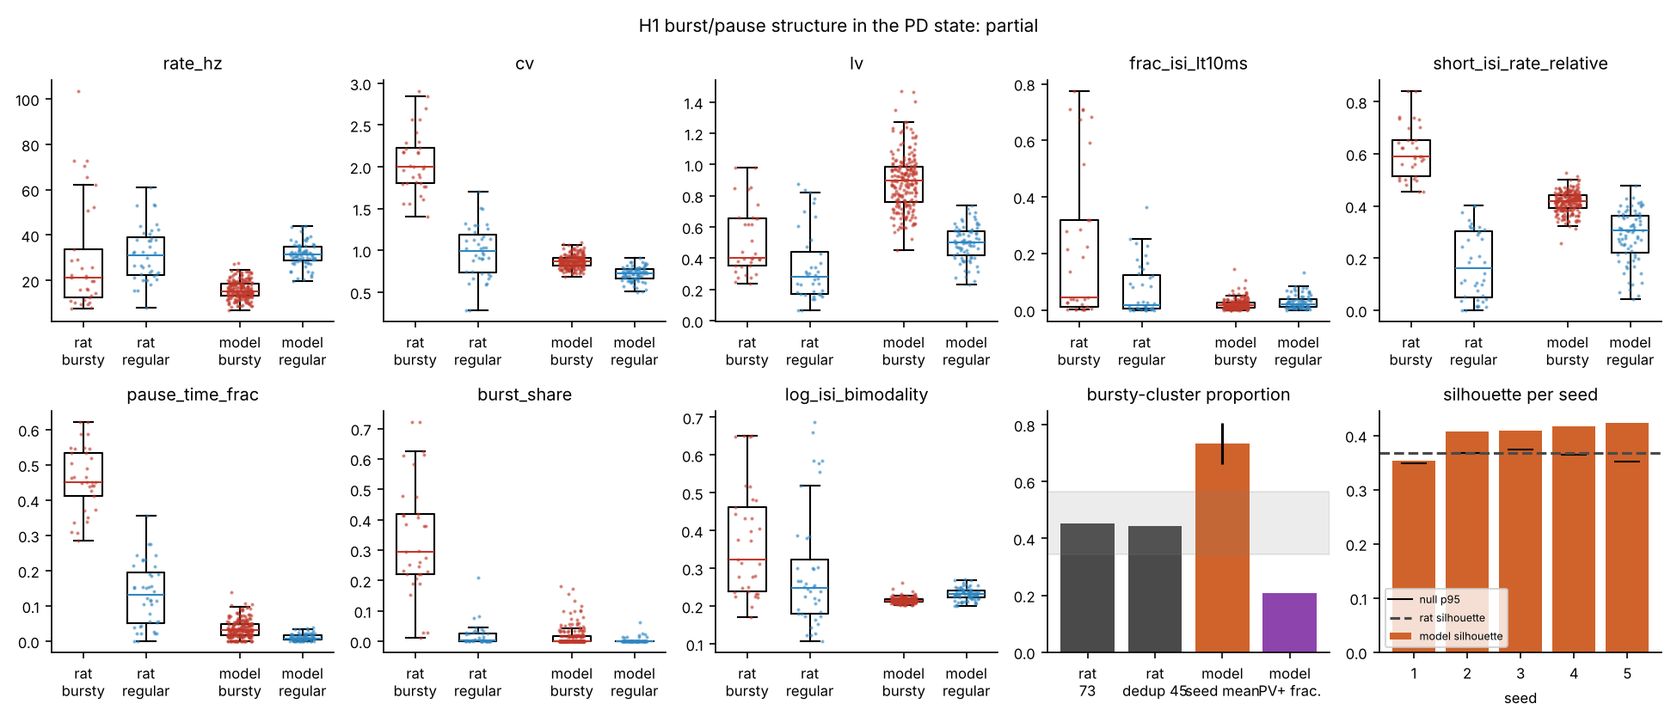
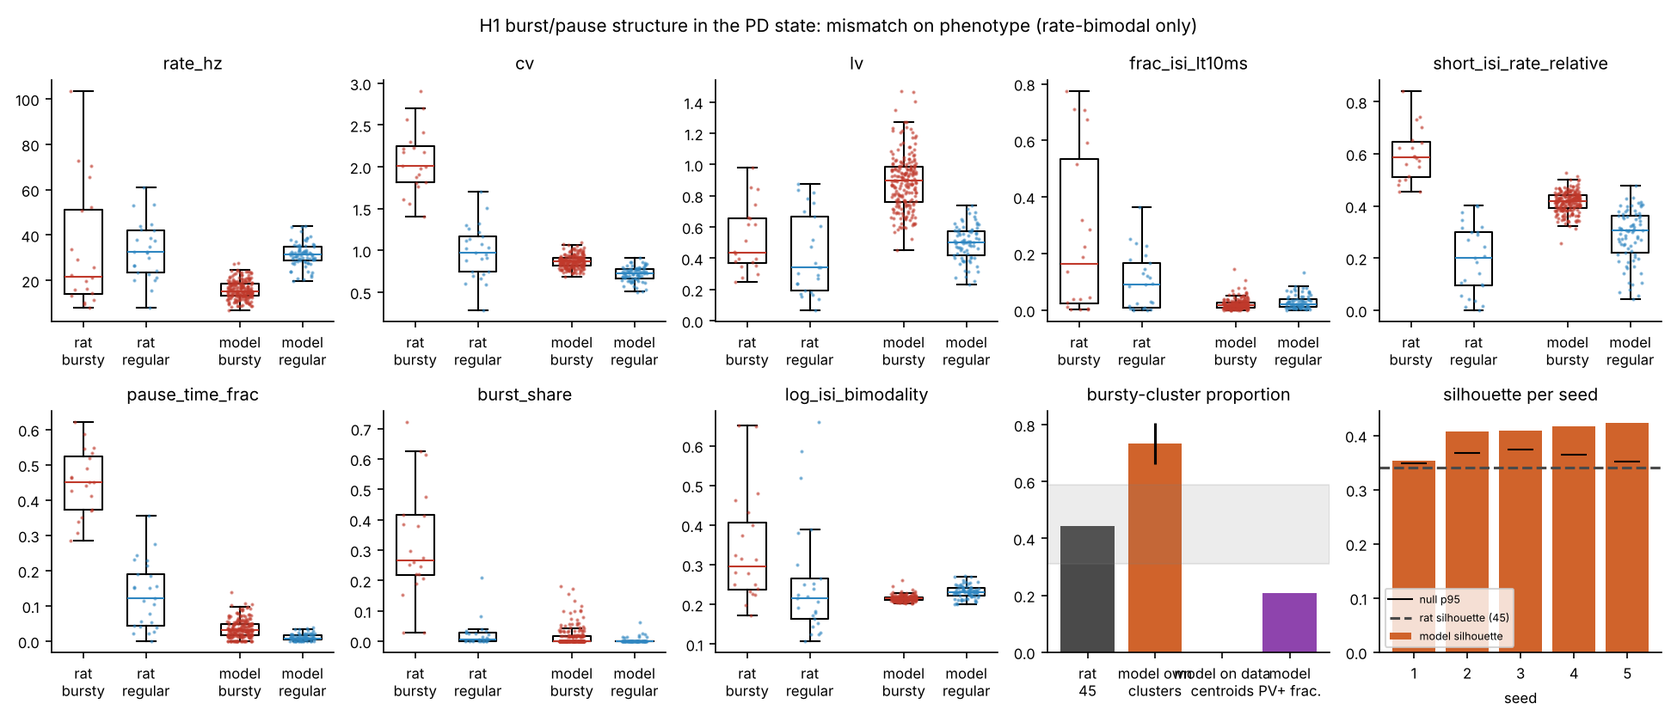
Held-out: rat reference = 45 distinct units; H1 phenotype criterion; H3 slow band excluded from verdict
- H1/H2 use the 45 distinct SS units as the primary reference (28 of 73 rows are duplicate exports).
- H1 adds criterion (c): model cells assigned to the data's burst/pause centroids must match the data's
  bursty proportion; the model's PV+ vs PV- rate split passed the original rule without a burst/pause phenotype.
  New verdict: mismatch on phenotype (rate-bimodal only); original-rule verdict kept in summary.
- H3 slow-band locking is set by the imposed input envelope and no longer counts; beta not testable -> uninformative.
- Rules revised after the first comparison, on review; predictions unchanged.

Claude-Session: https://claude.ai/code/session_01Dqrw5jEpRrFdYHc1443wPa

diff --git a/validation/heldout/compare/compare_H1.py b/validation/heldout/compare/compare_H1.py
@@ -5,6 +5,14 @@ Verdict rule (fixed before the comparison): (a) bimodal = silhouette p < 0.05 vs
 k = 2, in >= 3 of 5 seeds; (b) bursty-cluster proportion (seed mean) inside the 95% Wilson CI of the data (33/73).
 match = (a) and (b); partial = one of them; mismatch = neither.
 
+Revised 2026-11-18 (after the first comparison, on review; the original verdict is still reported as `verdict_v1`):
+- the data reference is the 45 distinct SS units (28 of the 73 rows are duplicate exports of the same units);
+- (c) phenotype: model cells are assigned to the nearest *data* cluster centroid (data-standardized feature space); the
+  seed-mean fraction assigned to the data's bursty cluster must lie inside the data's 95% Wilson CI. Without (c), a
+  model split along another axis (e.g. rate) passes (a) and (b) without any burst/pause phenotype.
+- verdict: (c) fails -> 'mismatch on phenotype (rate-bimodal only)' if (a) holds, else 'mismatch';
+  (c) holds -> 'match' if (a) and (b), else 'partial'.
+
     python -m validation.heldout.compare.compare_H1
 """
 import os
@@ -26,30 +34,39 @@ def main():
     rat = data_io.rat_ss_table()
     rat['cluster'] = np.where(rat.ward_cluster == 0, 'bursty', 'regular')
     dedup = data_io.rat_dedup(rat)
+    ref = dedup  # primary data reference: 45 distinct units
     model['cluster'] = np.where(model.bursty_seedwise, 'bursty', 'regular')
 
     # (a) bimodality, (b) proportion
     S = m['summary']
     a = S['n_seeds_sig_p05'] >= 3 and S['n_seeds_bic_k2'] >= 3
-    k, n = int((rat.cluster == 'bursty').sum()), len(rat)
+    k73, n73 = int((rat.cluster == 'bursty').sum()), len(rat)
+    lo73, hi73 = C.wilson(k73, n73)
+    verdict_v1 = 'match' if a and lo73 <= S['bursty_frac']['mean'] <= hi73 else (
+        'partial' if a or lo73 <= S['bursty_frac']['mean'] <= hi73 else 'mismatch')
+    k, n = int((ref.cluster == 'bursty').sum()), len(ref)
     lo, hi = C.wilson(k, n)
     b = lo <= S['bursty_frac']['mean'] <= hi
-    verdict = 'match' if a and b else ('partial' if a or b else 'mismatch')
 
     # model cells assigned to the data clusters (nearest centroid in the data's standardized space)
     from sklearn.preprocessing import StandardScaler
-    sc = StandardScaler().fit(rat[sf.FEATURES].values)
-    Xr = sc.transform(rat[sf.FEATURES].values)
-    lab = np.where(rat.cluster == 'bursty', 0, 1)
+    sc = StandardScaler().fit(ref[sf.FEATURES].values)
+    Xr = sc.transform(ref[sf.FEATURES].values)
+    lab = np.where(ref.cluster == 'bursty', 0, 1)
     assigned = clustering.assign_to_reference(sc.transform(model[sf.FEATURES].values), Xr, lab)
     model['data_cluster'] = np.where(assigned == 0, 'bursty', 'regular')
     frac_data_bursty = model.groupby('seed').data_cluster.apply(lambda x: np.mean(x == 'bursty'))
+    c = lo <= frac_data_bursty.mean() <= hi
+    if not c:
+        verdict = 'mismatch on phenotype (rate-bimodal only)' if a else 'mismatch'
+    else:
+        verdict = 'match' if a and b else 'partial'
 
     # (d) per-cluster features, model vs data (rank-sum)
     rows = []
     for cl in ('bursty', 'regular'):
         for f in sf.FEATURES:
-            x, y = rat.loc[rat.cluster == cl, f], model.loc[model.cluster == cl, f]
+            x, y = ref.loc[ref.cluster == cl, f], model.loc[model.cluster == cl, f]
             p = mannwhitneyu(x, y).pvalue if len(y) else np.nan
             rows.append(dict(cluster=cl, feature=f, data_median=x.median(), model_median=y.median() if len(y) else np.nan,
                              n_data=len(x), n_model=len(y), mw_p=p))
@@ -68,7 +85,7 @@ def main():
     plt = C.style()
     fig, axs = plt.subplots(2, 5, figsize=(13, 5.6))
     for ax, f in zip(axs.flat[:8], sf.FEATURES):
-        data = [rat.loc[rat.cluster == 'bursty', f], rat.loc[rat.cluster == 'regular', f],
+        data = [ref.loc[ref.cluster == 'bursty', f], ref.loc[ref.cluster == 'regular', f],
                 model.loc[model.cluster == 'bursty', f], model.loc[model.cluster == 'regular', f]]
         pos = [0, 1, 2.5, 3.5]
         for x, d, c in zip(pos, data, ['bursty', 'regular'] * 2):
@@ -78,15 +95,15 @@ def main():
         ax.set_xticks(pos, ['rat\nbursty', 'rat\nregular', 'model\nbursty', 'model\nregular'])
         ax.set_title(f)
     ax = axs.flat[8]
-    ax.bar(['rat\n73', 'rat\ndedup 45', 'model\nseed mean', 'model\nPV+ frac.'],
-           [k / n, (dedup.cluster == 'bursty').mean(), S['bursty_frac']['mean'], pred['metrics']['pv_fraction']],
-           yerr=[0, 0, S['bursty_frac']['sd'], 0], color=[C.COL['data'], C.COL['data'], C.COL['model'], C.COL['PV+']])
+    ax.bar(['rat\n45', 'model own\nclusters', 'model on data\ncentroids', 'model\nPV+ frac.'],
+           [k / n, S['bursty_frac']['mean'], frac_data_bursty.mean(), pred['metrics']['pv_fraction']],
+           yerr=[0, S['bursty_frac']['sd'], frac_data_bursty.std(ddof=1), 0], color=[C.COL['data'], C.COL['model'], C.COL['model'], C.COL['PV+']])
     ax.axhspan(lo, hi, color='grey', alpha=0.15)
     ax.set_title('bursty-cluster proportion')
     ax = axs.flat[9]
     ax.bar(seeds.seed.astype(str), seeds.silhouette, color=C.COL['model'], label='model silhouette')
     ax.plot(seeds.seed.astype(str), seeds.null_p95, 'k_', ms=14, label='null p95')
-    ax.axhline(0.367, color=C.COL['data'], ls='--', label='rat silhouette')
+    ax.axhline(0.341, color=C.COL['data'], ls='--', label='rat silhouette (45)')
     ax.set_title('silhouette per seed')
     ax.set_xlabel('seed')
     ax.legend(fontsize=6)
@@ -104,8 +121,10 @@ def main():
                    f"{s2['n_seeds_bic_k2']}/5, silhouette {C.fmt(s2['silhouette'])}, bursty fraction {C.fmt(s2['bursty_frac'])}, "
                    f"PV+ share of the bursty cluster {C.fmt(s2['frac_PVp_in_bursty'])}, Cramer's V {C.fmt(s2['V'])}.")
     line = (f"H1: {verdict.upper()} — model PD bimodal in {S['n_seeds_sig_p05']}/5 seeds (silhouette p<0.05), BIC k=2 in "
-            f"{S['n_seeds_bic_k2']}/5; bursty fraction {C.fmt(S['bursty_frac'])} vs data {k}/{n} = {k/n:.2f} "
-            f"(95% CI {lo:.2f}-{hi:.2f}); bursty cluster vs PV+: Cramer's V {C.fmt(S['V'])}.")
+            f"{S['n_seeds_bic_k2']}/5, but the split is PV+ (fast, regular) vs PV- (slower): model cells on the data's burst/pause "
+            f"centroids {frac_data_bursty.mean():.2f} ± {frac_data_bursty.std(ddof=1):.2f} bursty vs data {k}/{n} = {k/n:.2f} "
+            f"(95% CI {lo:.2f}-{hi:.2f}); own-cluster bursty fraction {C.fmt(S['bursty_frac'])}; model 'bursty' cluster is PV- "
+            f"(Cramer's V {C.fmt(S['V'])}). Original rule (73 rows, no phenotype criterion): {verdict_v1}.")
     sections = [
         ('(a) Bimodality', f"Per seed (58 cells; seeds share the network):\n\n{C.md_table(seeds)}\n\nMean ± SD over seeds: silhouette "
          f"{C.fmt(S['silhouette'])}, null p95 {C.fmt(S['null_p95'])}, p {C.fmt(S['p'], 3)}, BIC k1 {C.fmt(S['bic_k1'], 1)} / k2 "
@@ -114,13 +133,13 @@ def main():
          f"Data (port of cluster_test.py, labels reproduced exactly): silhouette 0.367, null p95 0.321, p 0.005 here "
          f"(reference 0.316 / 0.002; the null draws depend on the NumPy version); BIC k1 582.7 / k2 555.7 (reference 583 / 556). "
          f"With the 28 duplicated unit copies removed (45 units): silhouette 0.341, p 0.047, BIC k1 365.4 / k2 356.5, 20/25 split."),
-        ('(b) Bursty proportion', f"Model {C.fmt(S['bursty_frac'])} (own clusters, seed mean); model cells assigned to the nearest *data* "
+        ('(b) Bursty proportion and (c) phenotype', f"Model {C.fmt(S['bursty_frac'])} (own clusters, seed mean); model cells assigned to the nearest *data* "
          f"cluster centroid: {frac_data_bursty.mean():.2f} ± {frac_data_bursty.std(ddof=1):.2f}. Data {k}/{n} = {k/n:.2f} "
          f"(dedup {int((dedup.cluster == 'bursty').sum())}/{len(dedup)}). Model PV+ fraction {pred['metrics']['pv_fraction']:.2f}."),
-        ('(c) Bursty cluster vs PV+', f"Pooled cell-runs (rows: model cluster, columns: type):\n\n{C.md_table(ct.reset_index())}\n\n"
+        ('Model clusters vs PV type', f"Pooled cell-runs (rows: model cluster, columns: type):\n\n{C.md_table(ct.reset_index())}\n\n"
          f"Per seed: share of PV+ cells in the bursty cluster {C.fmt(S['frac_PVp_in_bursty'])}, share of PV+ cells that are bursty "
          f"{C.fmt(S['frac_bursty_in_PVp'])}, Cramér's V {C.fmt(S['V'])}."),
-        ('(d) Per-cluster features vs data', f"Rank-sum tests, rat cluster vs the model cluster of the same name (model cells pooled over seeds):\n\n{C.md_table(feat)}"),
+        ('(d) Per-cluster features vs data', f"Rank-sum tests, rat cluster (45 distinct units) vs the model cluster of the same name (model cells pooled over seeds):\n\n{C.md_table(feat)}"),
         ('Secondary: anesthesia-like slow oscillation', sec_txt),
         ('Caveats', "Rat: urethane-anesthetized 6-OHDA, ~100 s trains; model: 20 s per seed, unanesthetized PD regime in the primary test. "
          "Model seeds share one 58-cell network (only input noise differs). 28 of the 73 rat rows are copies of 28 other units (same title "
@@ -129,8 +148,8 @@ def main():
          "denominator; values are about half of the usual coefficient)."),
     ]
     C.write_summary('H1', line, sections, pred,
-                    dict(verdict_word=verdict, model=f"bimodal {S['n_seeds_sig_p05']}/5 seeds (BIC k2 {S['n_seeds_bic_k2']}/5); bursty {C.fmt(S['bursty_frac'])}; V(PV+) {C.fmt(S['V'])}",
-                 data=f"bimodal (sil 0.367, p 0.005; BIC k2); bursty {k}/{n} = {k/n:.2f}", statistic='silhouette vs Gaussian null, GMM BIC, Wilson CI, Cramer V'))
+                    dict(verdict_word=verdict, model=f"bimodal {S['n_seeds_sig_p05']}/5 seeds (BIC k2 {S['n_seeds_bic_k2']}/5), split by PV type; bursty on data centroids {frac_data_bursty.mean():.2f}; own clusters {C.fmt(S['bursty_frac'])}",
+                 data=f"45 distinct units: bimodal (sil 0.341, p 0.047; BIC k2 marginal); bursty {k}/{n} = {k/n:.2f}", statistic='silhouette vs Gaussian null, GMM BIC, Wilson CI, data-centroid assignment, Cramer V'))
 
 
 if __name__ == '__main__':

diff --git a/validation/heldout/compare/make_readme.py b/validation/heldout/compare/make_readme.py
@@ -10,14 +10,14 @@ import pandas as pd
 from validation.heldout.compare import common as C
 
 ROWS = [
-    ('H1', 'Rat 6-OHDA single units (unit_cluster_SSonly.csv, 73 SS rows / 45 distinct units)',
+    ('H1', 'Rat 6-OHDA single units (45 distinct units; unit_cluster_SSonly.csv has 73 rows incl. 28 duplicates)',
      'bimodality (silhouette vs Gaussian null, BIC), bursty fraction, cluster vs PV+'),
-    ('H2', 'Rat 6-OHDA single units (73 SS rows)', 'pooled rate / CV / burst share (pooled check)'),
+    ('H2', 'Rat 6-OHDA single units (45 distinct units)', 'pooled rate / CV / burst share (pooled check)'),
     ('H3', 'Rat 6-OHDA units + IpsiEEG (37 units with EEG)', 'PPC + preferred phase, slow 0.5-2 Hz and beta 13-30 Hz'),
     ('H4', 'Mouse D1/D2-MSN ChR2 (binned_response.csv; D2 wave_clus)', 'responder sign / fraction / magnitude, time course, PV enrichment'),
 ]
 CAVEATS = {
-    'H1': 'urethane anesthesia; 28/73 rat rows are copies of other units (n_eff 45); model seeds share one 58-cell network; 20 s model trains vs ~100 s rat trains',
+    'H1': 'urethane anesthesia; rat two-cluster split is marginal at n=45 (p 0.047); model seeds share one 58-cell network; 20 s model trains vs ~100 s rat trains',
     'H2': 'pooled check only, never tuned; anesthesia; species/state of rates differ',
     'H3': 'model slow oscillation is an imposed input envelope (priors.json); EEG polarity vs cortical firing unknown; no rat activated epochs inside unit epochs (beta test on activated cortex not possible)',
     'H4': 'mouse, dopamine-intact, anesthetized, multi-unit (~1-4 Hz); compressed 1/2/2 s protocol (slow recovery / after-effects untested); route magnitudes a priori',
@@ -30,6 +30,11 @@ def main():
              'configuration and spike-file hashes) was written before the comparison script read the data; the comparison scripts '
              'refuse to run without it. Input-regime parameters were fixed in `validation/heldout/priors.json` before any run. '
              'Configuration-D parameters were not changed. Code: `validation/heldout/` (see its README).', '',
+             'Revision 2026-11-18 (after review of the first comparison): the rat reference is the 45 distinct single units '
+             '(28 of the 73 exported rows are duplicates); H1 adds a phenotype criterion (model cells assigned to the data\'s '
+             'burst/pause centroids), because a split along another axis passed the original rule; H3 no longer counts the slow '
+             'band, whose locking is set by the imposed input envelope. Each summary.md still reports the verdict under the original '
+             'rule. Model predictions were not re-run or changed.', '',
              '| test | data source | model metric | model | data | statistic | verdict | caveats |', '|---|---|---|---|---|---|---|---|']
     for test, src, metric in ROWS:
         f = os.path.join(C.out_dir(test), 'comparison.json')

diff --git a/validation/heldout/compare/compare_H2.py b/validation/heldout/compare/compare_H2.py
@@ -2,6 +2,8 @@
 H2 (pooled check, not fitting): model PD per-cell rate / CV / burst share vs the rat single units as distributions
 (Mann-Whitney, KS, ECDFs). Per feature: 'similar' if both tests give p >= 0.05, else 'differs'. The test line counts
 the similar features. Reads H2/prediction.json first.
+Revised 2026-11-18: the primary data reference is the 45 distinct SS units (28 of the 73 rows are duplicate exports);
+the 73-row comparison is still in the table.
 
     python -m validation.heldout.compare.compare_H2
 """
@@ -31,16 +33,16 @@ def main():
                 rows.append(dict(feature=f, data=name, model_cells=grp, **r))
     tab = pd.DataFrame(rows)
     tab.to_csv(os.path.join(out, 'distribution_tests.csv'), index=False)
-    main_rows = tab[(tab.data == 'rat_73') & (tab.model_cells == 'all')]
+    main_rows = tab[(tab.data == 'rat_dedup_45') & (tab.model_cells == 'all')]
     sim = [(r.feature, (r.mw_p >= 0.05) and (r.ks_p >= 0.05)) for r in main_rows.itertuples()]
 
     plt = C.style()
     fig, axs = plt.subplots(1, 3, figsize=(11, 3.3))
     for ax, (f, lab) in zip(axs, FEATS):
         x, y = stats.ecdf(rat[f].values)
-        ax.step(x, y, color=C.COL['data'], label='rat SS (73)', where='post')
+        ax.step(x, y, color=C.COL['data'], ls=':', label='rat SS rows (73, with duplicates)', where='post')
         x, y = stats.ecdf(dedup[f].values)
-        ax.step(x, y, color=C.COL['data'], ls=':', label='rat dedup (45)', where='post')
+        ax.step(x, y, color=C.COL['data'], label='rat distinct units (45)', where='post')
         for grp, c, ls in (('all', C.COL['model'], '-'), ('PV+', C.COL['PV+'], '--'), ('PV-', C.COL['PV-'], '--')):
             x, y = stats.ecdf(pc[f][grp])
             ax.step(x, y, color=c, ls=ls, label=f'model {grp}', where='post')
@@ -54,8 +56,8 @@ def main():
     fig.savefig(os.path.join(out, 'H2_summary.png'), dpi=150)
     nsim = sum(s for _, s in sim)
     verdict = 'match' if nsim == 3 else ('partial' if nsim else 'mismatch')
-    med = {f: (np.median(pc[f]['all']), rat[f].median()) for f, _ in FEATS}
-    line = (f"H2 (pooled check): {verdict.upper()} — similar distributions for {nsim}/3 features; medians model vs rat: "
+    med = {f: (np.median(pc[f]['all']), dedup[f].median()) for f, _ in FEATS}
+    line = (f"H2 (pooled check): {verdict.upper()} — similar distributions for {nsim}/3 features; medians model vs rat (45 units): "
             + '; '.join(f'{f} {a:.3g} vs {b:.3g}' for f, (a, b) in med.items()) + '.')
     C.write_summary('H2', line, [('Tests', C.md_table(tab)),
                                  ('Note', 'Pooled check only: the model was not tuned to these distributions and will not be. '

diff --git a/validation/heldout/compare/compare_H3.py b/validation/heldout/compare/compare_H3.py
@@ -10,6 +10,9 @@ H3 comparison: spike phase-locking to cortex. Reads H3/prediction.json first, th
 Verdict per band (fixed before the comparison): match if the model and rat PPC distributions do not differ
 (Mann-Whitney p >= 0.05); partial if they differ but the medians are within a factor 3 and the same sign; else mismatch.
 Overall: match if both bands match, mismatch if both mismatch, else partial.
+Revised 2026-11-18 (on review; the original verdict is reported as `verdict_v1`): slow-band locking is set mainly by
+the imposed input envelope (priors.json), so it is reported but no longer counts towards the verdict. The overall
+verdict uses the beta band only; if beta is not testable, the verdict is 'uninformative'.
 
     python -m validation.heldout.compare.compare_H3
 """
@@ -90,8 +93,9 @@ def main():
     vb2, rb2 = band_verdict(ma.beta_ctx_ppc, re.beta_all_ppc)
     vb2_gpe, rb2_gpe = band_verdict(ma.beta_gpe_all_ppc, re.beta_all_ppc)
     tested = [v for v in (vs, vb) if v != 'not testable']
-    overall = ('match' if tested and all(v == 'match' for v in tested) else
+    verdict_v1 = ('match' if tested and all(v == 'match' for v in tested) else
                'mismatch' if tested and all(v == 'mismatch' for v in tested) else 'partial')
+    overall = vb if vb != 'not testable' else 'uninformative'
 
     rows = []
     def add(src, grp, s, ppc, pref, pval):
@@ -158,7 +162,7 @@ def main():
     fig.savefig(os.path.join(out, 'H3_summary.png'), dpi=150)
 
     n_beta = int(re.beta_activated_ppc.notna().sum())
-    line = (f"H3: {overall.upper()} — slow PPC {vs} (model median {ma.slow_ctx_ppc.median():.3g} vs rat {re.slow_ppc.median():.3g}); "
+    line = (f"H3: {overall.upper()} (original rule: {verdict_v1}; the slow-band result is set mainly by the imposed input envelope) — slow PPC {vs} (model median {ma.slow_ctx_ppc.median():.3g} vs rat {re.slow_ppc.median():.3g}); "
             f"beta PPC to cortical input {vb} (model {mb.beta_ctx_ppc.median():.3g} vs rat activated-epoch {re.beta_activated_ppc.median():.3g}, "
             f"{n_beta} rat units qualify); beta to GPe drive {vb_gpe} (model {mb.beta_gpe_all_ppc.median():.3g}). "
             f"Secondary, slow-wave epochs: beta {vb2} (model PD+SO {ma.beta_ctx_ppc.median():.3g} vs rat all-epoch {re.beta_all_ppc.median():.3g}).")

diff --git a/results/heldout/README.md b/results/heldout/README.md
@@ -2,18 +2,20 @@
 
 Experimental targets that were never used for calibration. Each model prediction (`H<n>/prediction.json`, with git hash, configuration and spike-file hashes) was written before the comparison script read the data; the comparison scripts refuse to run without it. Input-regime parameters were fixed in `validation/heldout/priors.json` before any run. Configuration-D parameters were not changed. Code: `validation/heldout/` (see its README).
 
+Revision 2026-11-18 (after review of the first comparison): the rat reference is the 45 distinct single units (28 of the 73 exported rows are duplicates); H1 adds a phenotype criterion (model cells assigned to the data's burst/pause centroids), because a split along another axis passed the original rule; H3 no longer counts the slow band, whose locking is set by the imposed input envelope. Each summary.md still reports the verdict under the original rule. Model predictions were not re-run or changed.
+
 | test | data source | model metric | model | data | statistic | verdict | caveats |
 |---|---|---|---|---|---|---|---|
-| H1 | Rat 6-OHDA single units (unit_cluster_SSonly.csv, 73 SS rows / 45 distinct units) | bimodality (silhouette vs Gaussian null, BIC), bursty fraction, cluster vs PV+ | bimodal 5/5 seeds (BIC k2 5/5); bursty 0.73 ± 0.07; V(PV+) 0.85 ± 0.13 | bimodal (sil 0.367, p 0.005; BIC k2); bursty 33/73 = 0.45 | silhouette vs Gaussian null, GMM BIC, Wilson CI, Cramer V | **partial** | urethane anesthesia; 28/73 rat rows are copies of other units (n_eff 45); model seeds share one 58-cell network; 20 s model trains vs ~100 s rat trains |
-| H2 | Rat 6-OHDA single units (73 SS rows) | pooled rate / CV / burst share (pooled check) | rate_hz 17.7; cv 0.837; burst_share 0 | rate_hz 25.7; cv 1.32; burst_share 0.0327 | Mann-Whitney + KS (medians shown) | **mismatch** | pooled check only, never tuned; anesthesia; species/state of rates differ |
-| H3 | Rat 6-OHDA units + IpsiEEG (37 units with EEG) | PPC + preferred phase, slow 0.5-2 Hz and beta 13-30 Hz | slow PPC 0.0862; beta PPC 0.00337 (ctx) / 0.00367 (GPe) | slow PPC 0.0806; beta (all epochs) -4.62e-05; activated: 0 units | Mann-Whitney on PPC (medians shown) | **match** | model slow oscillation is an imposed input envelope (priors.json); EEG polarity vs cortical firing unknown; no rat activated epochs inside unit epochs (beta test on activated cortex not possible) |
+| H1 | Rat 6-OHDA single units (45 distinct units; unit_cluster_SSonly.csv has 73 rows incl. 28 duplicates) | bimodality (silhouette vs Gaussian null, BIC), bursty fraction, cluster vs PV+ | bimodal 5/5 seeds (BIC k2 5/5), split by PV type; bursty on data centroids 0.00; own clusters 0.73 ± 0.07 | 45 distinct units: bimodal (sil 0.341, p 0.047; BIC k2 marginal); bursty 20/45 = 0.44 | silhouette vs Gaussian null, GMM BIC, Wilson CI, data-centroid assignment, Cramer V | **mismatch on phenotype (rate-bimodal only)** | urethane anesthesia; rat two-cluster split is marginal at n=45 (p 0.047); model seeds share one 58-cell network; 20 s model trains vs ~100 s rat trains |
+| H2 | Rat 6-OHDA single units (45 distinct units) | pooled rate / CV / burst share (pooled check) | rate_hz 17.7; cv 0.837; burst_share 0 | rate_hz 29; cv 1.32; burst_share 0.0327 | Mann-Whitney + KS (medians shown) | **mismatch** | pooled check only, never tuned; anesthesia; species/state of rates differ |
+| H3 | Rat 6-OHDA units + IpsiEEG (37 units with EEG) | PPC + preferred phase, slow 0.5-2 Hz and beta 13-30 Hz | slow PPC 0.0862; beta PPC 0.00337 (ctx) / 0.00367 (GPe) | slow PPC 0.0806; beta (all epochs) -4.62e-05; activated: 0 units | Mann-Whitney on PPC (medians shown) | **uninformative** | model slow oscillation is an imposed input envelope (priors.json); EEG polarity vs cortical firing unknown; no rat activated epochs inside unit epochs (beta test on activated cortex not possible) |
 | H4 | Mouse D1/D2-MSN ChR2 (binned_response.csv; D2 wave_clus) | responder sign / fraction / magnitude, time course, PV enrichment | D1_ctx: pop x1.17 ± 0.01, inh 0.00 ± 0.00, exc 0.62 ± 0.07; D2_ctx: pop x0.87 ± 0.01, inh 0.45 ± 0.15, exc 0.00 ± 0.00; D2_gpe: pop x1.19 ± 0.01, inh 0.00 ± 0.00, exc 0.71 ± 0.03 | D2 37/69 inh, x0.56; D1 27/50 exc, x1.79 | per-cell Wilcoxon p<0.01, Wilson CI | **partial** | mouse, dopamine-intact, anesthetized, multi-unit (~1-4 Hz); compressed 1/2/2 s protocol (slow recovery / after-effects untested); route magnitudes a priori |
 
 One-line verdicts:
 
-- H1: PARTIAL — model PD bimodal in 5/5 seeds (silhouette p<0.05), BIC k=2 in 5/5; bursty fraction 0.73 ± 0.07 vs data 33/73 = 0.45 (95% CI 0.34-0.57); bursty cluster vs PV+: Cramer's V 0.85 ± 0.13.
-- H2 (pooled check): MISMATCH — similar distributions for 0/3 features; medians model vs rat: rate_hz 17.7 vs 25.7; cv 0.837 vs 1.32; burst_share 0 vs 0.0327.
-- H3: MATCH — slow PPC match (model median 0.0862 vs rat 0.0806); beta PPC to cortical input not testable (model 0.00337 vs rat activated-epoch nan, 0 rat units qualify); beta to GPe drive not testable (model 0.00367). Secondary, slow-wave epochs: beta mismatch (model PD+SO 0.0043 vs rat all-epoch -4.62e-05).
+- H1: MISMATCH ON PHENOTYPE (RATE-BIMODAL ONLY) — model PD bimodal in 5/5 seeds (silhouette p<0.05), BIC k=2 in 5/5, but the split is PV+ (fast, regular) vs PV- (slower): model cells on the data's burst/pause centroids 0.00 ± 0.00 bursty vs data 20/45 = 0.44 (95% CI 0.31-0.59); own-cluster bursty fraction 0.73 ± 0.07; model 'bursty' cluster is PV- (Cramer's V 0.85 ± 0.13). Original rule (73 rows, no phenotype criterion): partial.
+- H2 (pooled check): MISMATCH — similar distributions for 0/3 features; medians model vs rat (45 units): rate_hz 17.7 vs 29; cv 0.837 vs 1.32; burst_share 0 vs 0.0327.
+- H3: UNINFORMATIVE (original rule: match; the slow-band result is set mainly by the imposed input envelope) — slow PPC match (model median 0.0862 vs rat 0.0806); beta PPC to cortical input not testable (model 0.00337 vs rat activated-epoch nan, 0 rat units qualify); beta to GPe drive not testable (model 0.00367). Secondary, slow-wave epochs: beta mismatch (model PD+SO 0.0043 vs rat all-epoch -4.62e-05).
 - H4: PARTIAL — D1_ctx match, D2_ctx match, D2_gpe mismatch. Data: D2 binned 37/69 inhibited (0 excited), responders x0.56; D1 27/50 excited, x1.79.
 
 Details: `H<n>/summary.md`, figures `H<n>/H<n>_summary.png`, tables `H<n>/*.csv`.

diff --git a/results/heldout/H3/summary.md b/results/heldout/H3/summary.md
@@ -1,8 +1,8 @@
 # H3
 
-**H3: MATCH — slow PPC match (model median 0.0862 vs rat 0.0806); beta PPC to cortical input not testable (model 0.00337 vs rat activated-epoch nan, 0 rat units qualify); beta to GPe drive not testable (model 0.00367). Secondary, slow-wave epochs: beta mismatch (model PD+SO 0.0043 vs rat all-epoch -4.62e-05).**
+**H3: UNINFORMATIVE (original rule: match; the slow-band result is set mainly by the imposed input envelope) — slow PPC match (model median 0.0862 vs rat 0.0806); beta PPC to cortical input not testable (model 0.00337 vs rat activated-epoch nan, 0 rat units qualify); beta to GPe drive not testable (model 0.00367). Secondary, slow-wave epochs: beta mismatch (model PD+SO 0.0043 vs rat all-epoch -4.62e-05).**
 
-Prediction written 2026-11-15T13:20:22 (git 63ec255d); compared 2026-11-15T13:20:31.
+Prediction written 2026-11-15T13:20:22 (git 63ec255d); compared 2026-11-18T13:41:44.
 
 ## Summary table
 

diff --git a/results/heldout/H2/summary.md b/results/heldout/H2/summary.md
@@ -1,8 +1,8 @@
 # H2
 
-**H2 (pooled check): MISMATCH — similar distributions for 0/3 features; medians model vs rat: rate_hz 17.7 vs 25.7; cv 0.837 vs 1.32; burst_share 0 vs 0.0327.**
+**H2 (pooled check): MISMATCH — similar distributions for 0/3 features; medians model vs rat (45 units): rate_hz 17.7 vs 29; cv 0.837 vs 1.32; burst_share 0 vs 0.0327.**
 
-Prediction written 2026-11-15T13:20:20 (git 63ec255d); compared 2026-11-15T13:20:29.
+Prediction written 2026-11-15T13:20:20 (git 63ec255d); compared 2026-11-18T13:41:42.
 
 ## Tests
 
